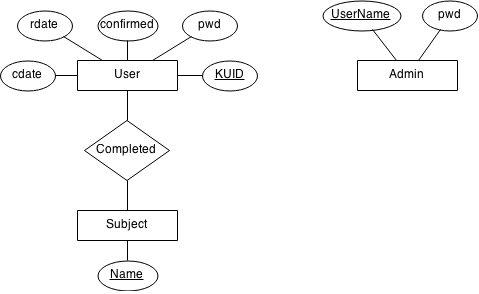
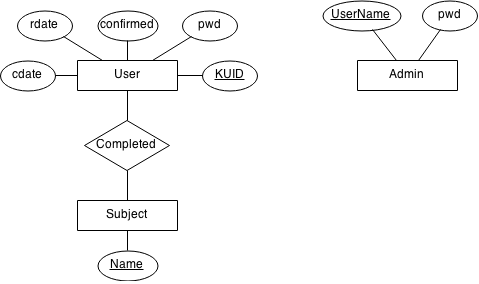
Tilføjet screenshots, både som filer og i rapporten, og opdateret er-diagrammerne

diff --git a/doc/Rapporten/rapport.tex b/doc/Rapporten/rapport.tex
@@ -332,7 +332,7 @@ Et ER-diagram over databasen ses på Figur \ref{fig:er_diagram}. Det er stort se
 
 \subsection{Implementeret funktionalitet}
 \label{sub:implementeret_funktionalitet}
-Vi har med ER-diagrammet i hånden implementeret en lang række klasser med hjælo fra \verb!SQLAlchemy!, som er en \emph{Object Relational Mapper} til python, der sørger for, at det er nemt at kunne lave python objekter ud fra en række i databasen.
+Vi har med ER-diagrammet i hånden implementeret en lang række klasser med hjælp fra \verb!SQLAlchemy!, som er en \emph{Object Relational Mapper} til python, der sørger for, at det er nemt at kunne lave python objekter ud fra en række i databasen.
 
 Oven på det har vi med hjælp fra \verb!Flask! frameworket implementeret en simpel web applikation der har funktionalitet til at håndtere brugerlogins og som kan vise og give respons på spørgsmål og præsentere dem og de \emph{Subjects} og \emph{Thresholds} de hører ind under.
 
@@ -377,7 +377,22 @@ Når vi har en funktionsdygtig brugergrænseflade, så skal der udføres tests a
 
 \section{Brugergrænseflade og interaktionsdesign}
 \label{sec:brugergraenseflade}
-Der er ikke lavet en reel brugerflade eller mockups endnu, og det er også et emne vi mangler at snakke i dybden med vores kunde om.
+\subsection{Screenshots}
+I Appendix \ref{sec:screenshots} ses screenshots af brugergrænsefladen for de vigtigste dele af vores projekt. De optræder i en rækkefølge der illustrerer dynamikken i en studerendes interaktion med vores system. I toppen af de fleste screenshots ses en navigationsbar, hvor man bl.a. kan se hvem der er logget ind, man kan logge ud og man kan ændre sit password. Der er desuden i venstre side et slags logo hvor man kan trykke for at blive taget tilbage til forsiden.
+
+På Figur \ref{fig:screenshot_login} ses et screenshot af den første del af vores brugergrænseflade en studerende vil møde, nemlig en login skærm. Hvis man allerede er registreret som bruger kan man her indtaste sig ku-id og sit valgte kodekord, og dermed logge på systemet. Hvis man ikke er oprettet som bruger er der et link der tager en videre til registrering. 
+
+På Figur \ref{fig:screenshot_register} ses registrerings siden. Her kan man indtaste sig ku-id, vælge sig et kodeord og registrere sig. Systemet sender så en mail til den relevante ku-mail med et verificeringslink, og så snart den studerende har trykket på linket er vedkommende klar til at logge på systemet.
+
+Når en studerende har logget sig ind i systemet vil han blive taget til index siden, som kan ses på Figur \ref{fig:screenshot_overview}. Her kan vedkommende få et overblik over de forskellige \emph{thresholds} og de dertil hørende \emph{subjects}. Den studerende kan så vælge hvilket emne han vil arbejde på og klikke på dets navn, hvilket fører ham videre til den næste del.
+
+På Figur \ref{fig:screenshot_subject} ses \emph{subject} siden, hvor den studerende kan læse om det valgte emne, og hvis han finder det interessant, trykke på knappen og begynde at løse opgaver inden for det bestemte emne. De dummy-data vi har i databasen på nuværende tidspunkt er lidt simple, så derfor ser siden også lidt kedelig ud lige nu.
+
+Når den studerende har trykket \emph{begin} vil han blive stillet en række opgaver, f.eks. multiple choice opgaver som den der kan ses på Figur \ref{fig:screenshot_question}. Den studerende kan så afgive sit svar, enten ved at indtaste et svar, afkryde de korrekte bokse eller trække svarmulighederne hen på de korrekte positioner, og trykke på \emph{answer} knappen. Der er desuden mulighed for at den studerende kan få hints til opgaven hvis det skulle være nødvendigt ved at trykke på den dertilhørende knap.
+
+Når den studerende har svaret på en opgave vil vedkommende blive taget til svar-siden, som kan ses på Figur \ref{fig:screenshot_answer}. Her får den studerende feedback på sit svar, der kan variere fra en helt simpel besked i form af rigtigt eller forkert til et mere detaljeret svar der f.eks. kunne indeholde en relevant stack trace. På svar-siden er der desuden et såkaldt \emph{Learn-O-Meter}, hvor den studerende kan se hvor langt vedkommende er nået med at gennemføre det valgte emne.
+
+Endeligt vil den studerende når vedkommende har gennemført et emne blive taget til en sidste side, som kan ses på Figur \ref{fig:screenshot_finish}, hvor der som det ser ud lige nu ikke står meget andet end \emph{Done}. Den studerende kan så trykke på \emph{finish} knappen, hvilket vil tage vedkommende til index siden, og derfra kan vedkommende så vælge et nyt emne at arbejde på eller logge ud.
 
 \section{Projektsamarbejdet}
 \label{sec:projektsamarbejdet}
@@ -392,9 +407,11 @@ Når vi har afleveret delrapport 2 er det planen at vi så vil mødes i gruppen 
 \newpage
 \appendix
 \section{Versionsstyring}
+\label{sec:versionsstyring}
 Link til github: \url{https://github.com/christiankjaer/pop-webhelp}
 
 \section{Changelog}
+\label{sec:changelog}
 \begin{tabular}{l l l}
 08-04-2015 & CKL & Dokument oprettet. \\
 14-04-2015 & CKL & Tilføjet use cases og krav. \\
@@ -405,8 +422,11 @@ Link til github: \url{https://github.com/christiankjaer/pop-webhelp}
 17-04-2015 & CKL & Tilføjet use cases, sekvensdiagram og klassediagram. \\
 26-04-2015 & CKL & Tilføjet afsnit om tests. \\
 30-04-2015 & CKL & Rettet til genaflevering og tilføjet systemdesign. \\
+10-05-2015 & LSE & Tilføjet Brugergrænseflade og screenshots. \\
 \end{tabular}
+
 \section{Timeline}
+\label{sec:timeline}
 \begin{tabular}{l l p{8cm}}
 11-03-2015 & Første møde med kunde: & Vi har første møde med kunden hvor vi snakker om hvad projektet går ud på og diskuterer krav og løsningsforslag. \\
 16-04-2015 & Andet møde med kunde: & Vi har haft andet møde med kunden, hvor vi har snakket om modellen for de opgaver der skal være i systemet. \\
@@ -416,5 +436,62 @@ Link til github: \url{https://github.com/christiankjaer/pop-webhelp}
 
 \bibliographystyle{alpha}
 \bibliography{refs}{}
+
+\section{Brugergrænseflade screenshots}
+\label{sec:screenshots}
+\begin{figure}[h]
+    \centering
+    \includegraphics[width=1\linewidth]{figures/interface/login.png}
+    \caption{Screenshot af login-siden.}
+    \label{fig:screenshot_login}
+\end{figure}
+
+
+\begin{figure}[h]
+    \centering
+    \includegraphics[width=1\linewidth]{figures/interface/register.png}
+    \caption{Screenshot af registrerings-siden.}
+    \label{fig:screenshot_register}
+\end{figure}
+
+
+\begin{figure}[h]
+    \centering
+    \includegraphics[width=1\linewidth]{figures/interface/overview.png}
+    \caption{Screenshot af index-siden.}
+    \label{fig:screenshot_overview}
+\end{figure}
+
+
+\begin{figure}[h]
+    \centering
+    \includegraphics[width=1\linewidth]{figures/interface/subject.png}
+    \caption{Screenshot af emne-siden.}
+    \label{fig:screenshot_subject}
+\end{figure}
+
+
+\begin{figure}[h]
+    \centering
+    \includegraphics[width=1\linewidth]{figures/interface/question.png}
+    \caption{Screenshot af spørgsmåls-siden.}
+    \label{fig:screenshot_question}
+\end{figure}
+
+
+\begin{figure}[h]
+    \centering
+    \includegraphics[width=1\linewidth]{figures/interface/answer.png}
+    \caption{Screenshot af svar-siden.}
+    \label{fig:screenshot_answer}
+\end{figure}
+
+
+\begin{figure}[h]
+    \centering
+    \includegraphics[width=1\linewidth]{figures/interface/finish.png}
+    \caption{Screenshot af færdig-siden.}
+    \label{fig:screenshot_finish}
+\end{figure}
 
 \end{document}
